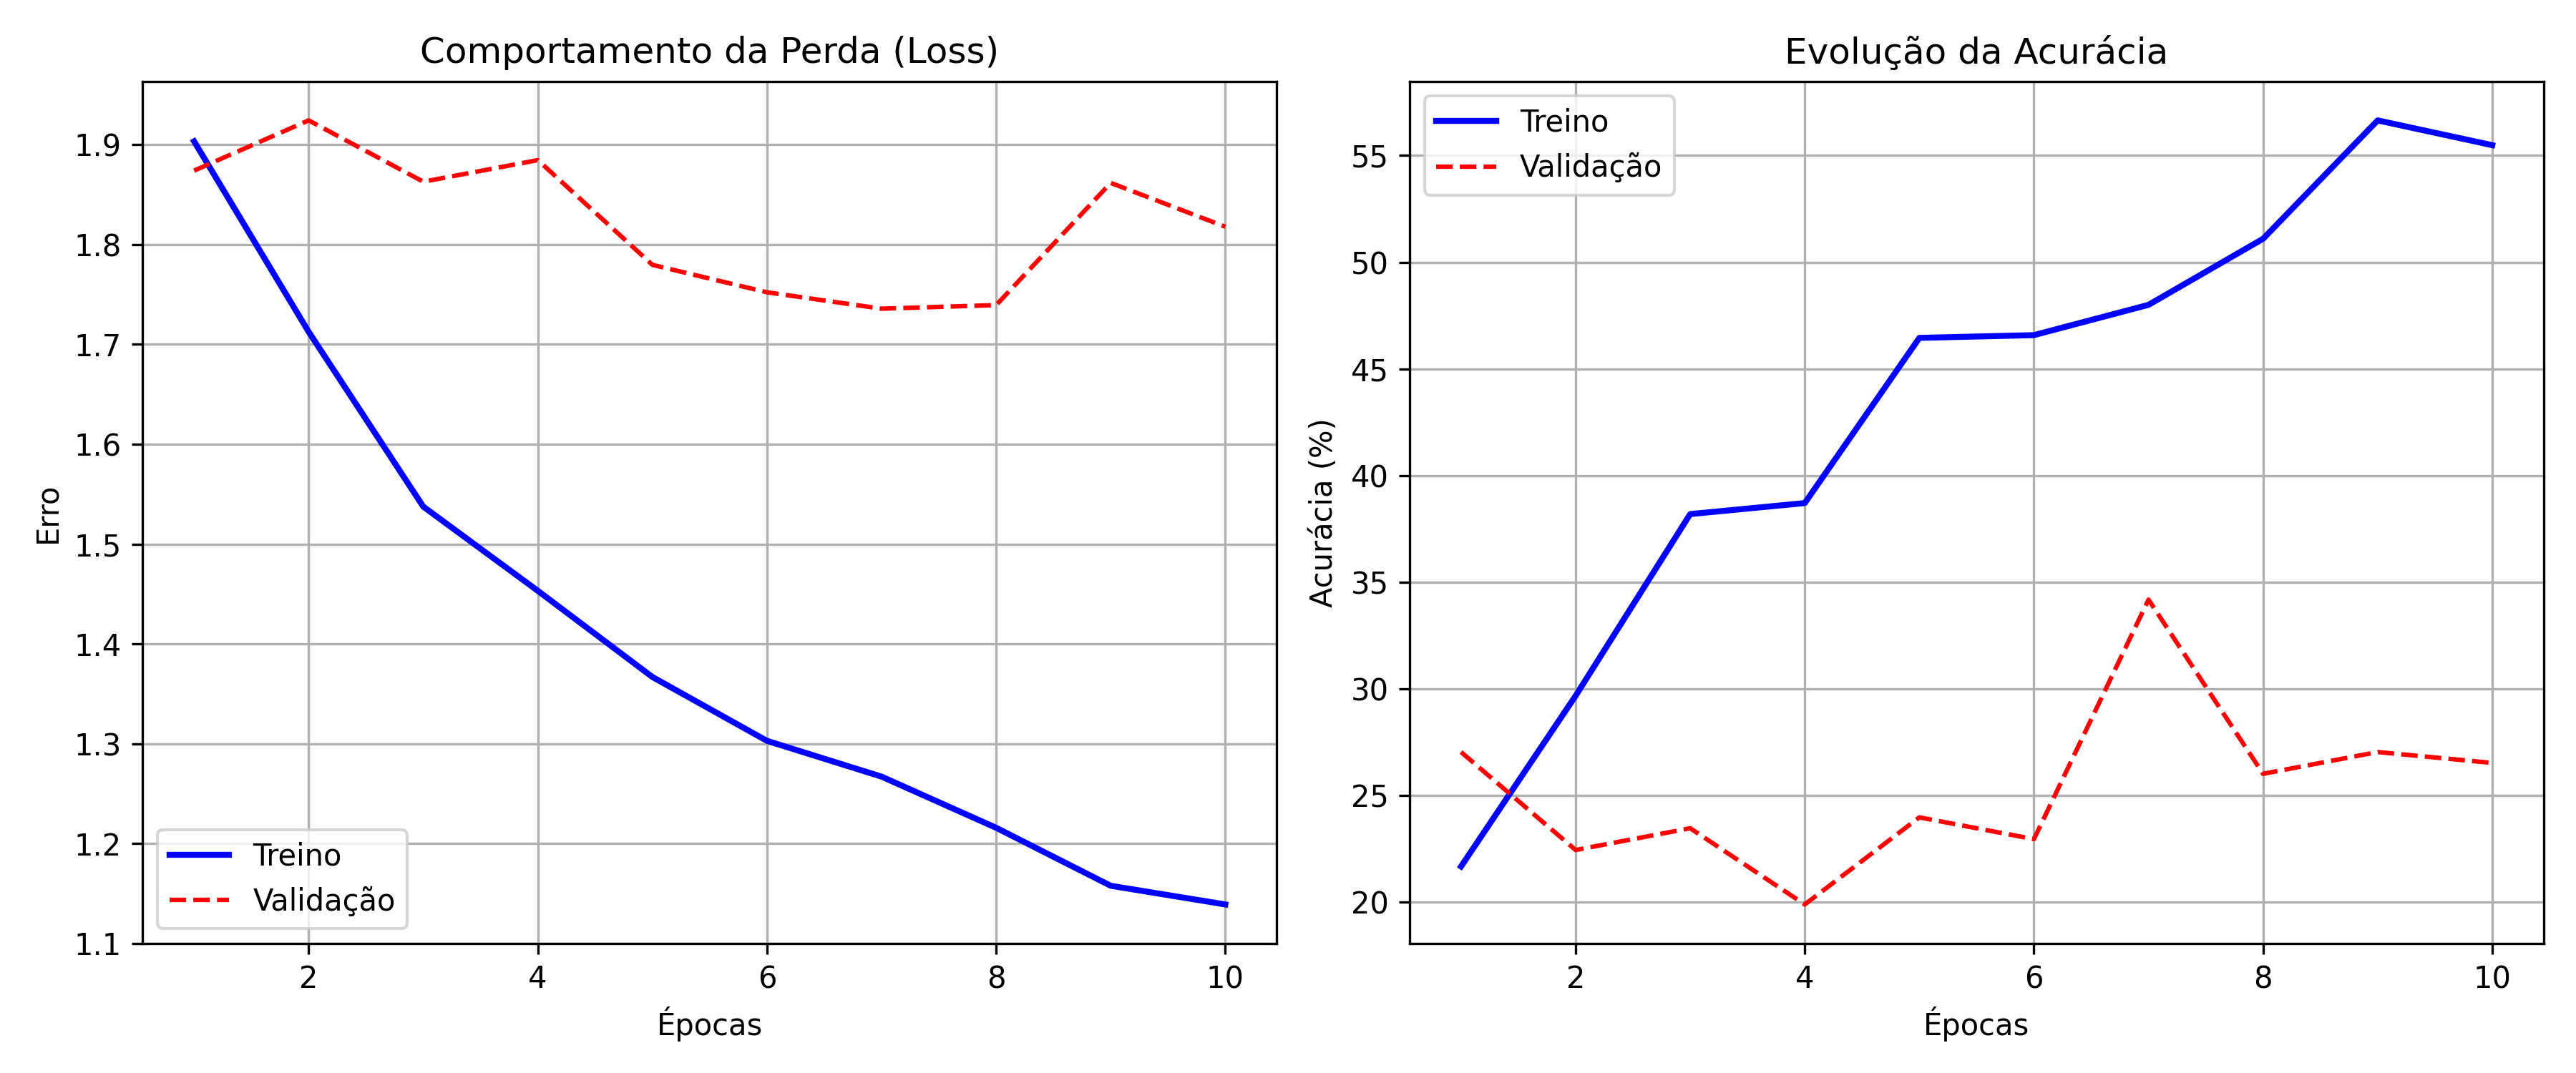
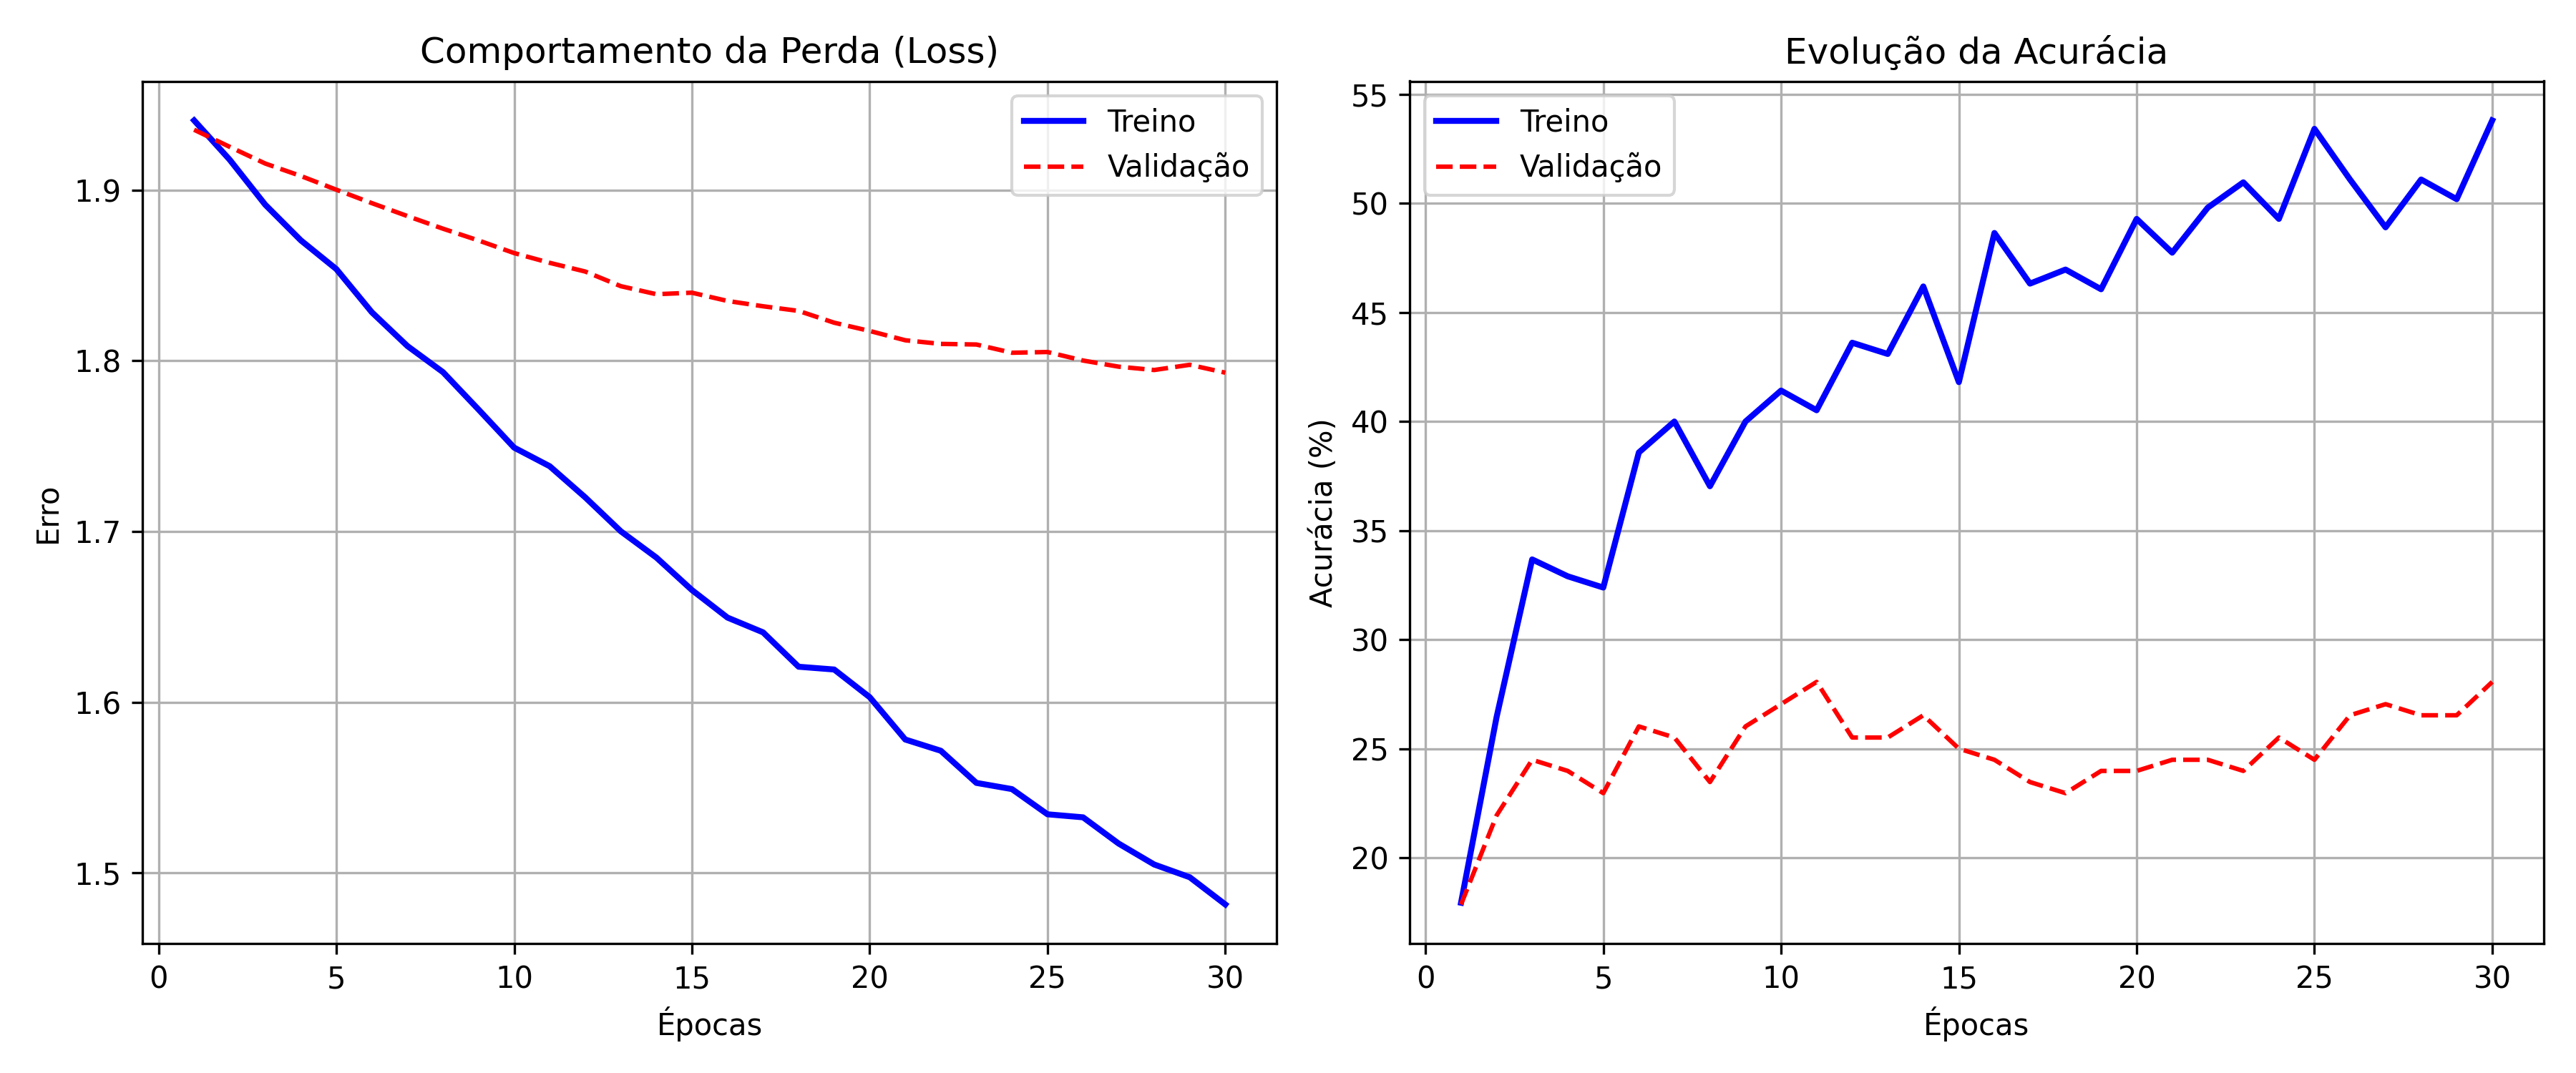
Ajustando o modelo de classificação

diff --git a/src/training/train_emotion.py b/src/training/train_emotion.py
@@ -1,5 +1,5 @@
 import torch
-import os # Adicione o 'os' para criar a pasta de salvamento, se não existir
+import os
 import torch.nn as nn
 import matplotlib.pyplot as plt
 from sklearn.metrics import confusion_matrix, ConfusionMatrixDisplay
@@ -12,9 +12,9 @@ def train():
     device = torch.device("cuda" if torch.cuda.is_available() else "cpu")
     print(f"Rodando o treinamento no dispositivo: {device}")
 
-    epochs = 10
+    epochs = 30
     batch_size = 4
-    learning_rate = 1e-4
+    learning_rate = 3e-4
 
     print(" Carregando o modelo HuBERT para Emoções...")
     model = HubertEmotionClassifier(num_classes=7)
@@ -40,13 +40,12 @@ def train():
 
         # Distribuição estrita de locutores para evitar vazamento de características físicas da voz
         if speaker in ['f6', 'm6']:
-            test_indices.append(idx)     # 🔒 Teste Final (Cofre isolado)
+            test_indices.append(idx)    
         elif speaker in ['f5', 'm5']:
-            val_indices.append(idx)      # 📈 Validação (Acompanhamento por época)
+            val_indices.append(idx)     
         else:
-            train_indices.append(idx)    # 🏋️ Treinamento (Atores f1-f4, m1-m4)
+            train_indices.append(idx)   
 
-    print(f"✅ Separação profissional realizada:")
     print(f"   Treino (Atores f1-f4, m1-m4): {len(train_indices)} áudios")
     print(f"   Validação (Atores f5, m5):    {len(val_indices)} áudios")
     print(f"   Teste Final (Atores f6, m6):  {len(test_indices)} áudios")
@@ -145,10 +144,6 @@ def train():
             
             # Salva apenas os pesos (state_dict), que é o padrão ouro do PyTorch
             torch.save(model.state_dict(), "checkpoints/melhor_modelo_emocoes.pth")
-
-        print("\n" + "="*40)
-    print("🔒 FIM DO TREINO! Avaliando a acurácia real no conjunto de TESTE...")
-    print("=========================================")
     
     # Carrega os pesos do modelo que teve a melhor performance na validação
     model.load_state_dict(torch.load("checkpoints/melhor_modelo_emocoes.pth"))
@@ -174,11 +169,11 @@ def train():
             all_labels.extend(labels.cpu().numpy())
             
     final_test_accuracy = (test_correct / test_total) * 100
-    print(f"🎯 ACURÁCIA FINAL E CONFIÁVEL DO MODELO (Teste): {final_test_accuracy:.2f}%")
+    print(f" ACURÁCIA FINAL DO MODELO (Teste): {final_test_accuracy:.2f}%")
     print("="*40)
 
-    # 🔥 GERANDO O GRÁFICO DO TESTE FINAL (Matriz de Confusão)
-    print("\n🎨 Gerando a Matriz de Confusão do conjunto de Teste...")
+    #   (Matriz de Confusão)
+    
     
     # Nomes das classes na ordem correta do seu mapeamento (0 a 6)
     emotion_labels = ['Alegria', 'Desgosto', 'Medo', 'Neutro', 'Raiva', 'Surpresa', 'Tristeza']
@@ -198,10 +193,8 @@ def train():
     
     # Salva a imagem no seu projeto
     plt.savefig("matriz_confusao_teste.png", dpi=300)
-    print("💾 Gráfico do teste salvo com sucesso como 'matriz_confusao_teste.png'!")
-
+   
     # === Bloco para Gerar e Salvar os Gráficos ===
-    print("\n📊 Gerando gráficos de desempenho...")
     epochs_range = range(1, len(history["train_loss"]) + 1)
 
     plt.figure(figsize=(12, 5))
@@ -229,7 +222,7 @@ def train():
     # Salva a imagem na raiz do projeto
     plt.tight_layout()
     plt.savefig("historico_treinamento.png", dpi=300)
-    print("💾 Gráfico salvo com sucesso como 'historico_treinamento.png'!")
+   
 
 
 if __name__ == "__main__":

diff --git a/src/models/EmotionClassifier.py b/src/models/EmotionClassifier.py
@@ -13,22 +13,32 @@ class HubertEmotionClassifier(nn.Module):
         self.processor, self.hubert = load_hubert_emotion_model(freeze=True)
         
         self.hidden_size = 768 
+
+        #############################
+        self.layer_weights = nn.Parameter(torch.ones(13))#
         
         self.classifier = nn.Sequential(
-            nn.Linear(self.hidden_size, 256),
-            nn.LayerNorm(256),
-            nn.LeakyReLU(0.1),
             nn.Dropout(0.4),
-            nn.Linear(256, num_classes)
+            nn.Linear(self.hidden_size, num_classes)
         )
         
     def forward(self, input_values):
     
         outputs = self.hubert(input_values, output_hidden_states=True)
+
+        hidden_states = outputs.hidden_states
+
+        soft_weights = torch.softmax(self.layer_weights, dim=0)
+
+        weighted_output = sum(w * h for w, h in zip(soft_weights, hidden_states))
+
+        pooled_output = torch.mean(weighted_output, dim=1)
         
-        last_hidden_state = outputs.hidden_states[-1]
+        #last_hidden_state = outputs.hidden_states[-5]
         
-        pooled_output = torch.mean(last_hidden_state, dim=1)
+        #pooled_output = torch.mean(last_hidden_state, dim=1)
         
         logits = self.classifier(pooled_output)
-        return logits   
+        return logits  
+
+